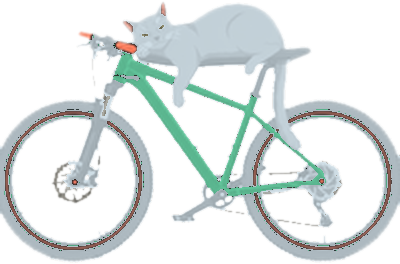
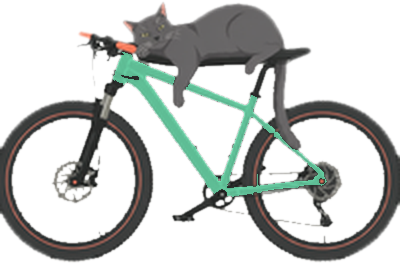
Temna tema: prebarvan samo okvir kolesa, ostalo kot original
Claude-Session: https://claude.ai/code/session_01SAsx9juPGKNRYSX8HAZXMs

diff --git a/app/index.html b/app/index.html
@@ -1095,8 +1095,8 @@ const CAT_SVG='<svg viewBox="0 0 340 200" preserveAspectRatio="xMidYMax meet" fo
 function riderEl(kind){
   const k=kind==='badge'?'trio':kind==='chick'?'chick':kind==='sloth'?'sloth':kind==='cat'?'cat':'ring';
   if(k==='ring') return h('div',{class:'rider-ov ov-ring','aria-hidden':'true'},h('div',{class:'hf-ring-w',html:RING_SVG}));
-  if(k==='trio') return h('div',{class:'rider-ov ov-trio','aria-hidden':'true'},h('div',{class:'trio-row'},['sloth','cat','chick'].map((n,i)=>h('img',{class:'ri tri',style:'animation-delay:'+(i*.14)+'s',src:'img/'+n+(themeNow()==='dark'?'-dark':'')+'.png?v=5',alt:'',draggable:'false'}))),[[8,18],[22,60],[38,8],[52,70],[66,14],[80,62],[92,22],[14,40],[74,40],[46,36]].map(([x,y],i)=>h('span',{class:'tsp',style:'left:'+x+'%;top:'+y+'%;animation-delay:'+(2.0+(i%5)*.12)+'s;color:var('+['--primary','--accent','--min','--rest','--primary'][i%5]+')',text:'✦'})));
-  const kids=[h('img',{class:'ri',src:'img/'+k+(themeNow()==='dark'?'-dark':'')+'.png?v=5',alt:'',draggable:'false'})];
+  if(k==='trio') return h('div',{class:'rider-ov ov-trio','aria-hidden':'true'},h('div',{class:'trio-row'},['sloth','cat','chick'].map((n,i)=>h('img',{class:'ri tri',style:'animation-delay:'+(i*.14)+'s',src:'img/'+n+(themeNow()==='dark'?'-dark':'')+'.png?v=6',alt:'',draggable:'false'}))),[[8,18],[22,60],[38,8],[52,70],[66,14],[80,62],[92,22],[14,40],[74,40],[46,36]].map(([x,y],i)=>h('span',{class:'tsp',style:'left:'+x+'%;top:'+y+'%;animation-delay:'+(2.0+(i%5)*.12)+'s;color:var('+['--primary','--accent','--min','--rest','--primary'][i%5]+')',text:'✦'})));
+  const kids=[h('img',{class:'ri',src:'img/'+k+(themeNow()==='dark'?'-dark':'')+'.png?v=6',alt:'',draggable:'false'})];
   if(k==='sloth') for(let n=0;n<4;n++) kids.push(h('span',{class:'ri-z',style:'animation-delay:'+(.3+n*.6)+'s',text:'z'+(n%2?' z':' z z')}));
   if(k==='cat') kids.push(h('span',{class:'ri-z ri-meh',text:'meh…'}));
   return h('div',{class:'rider-ov ov-'+k,'aria-hidden':'true'},kids);
